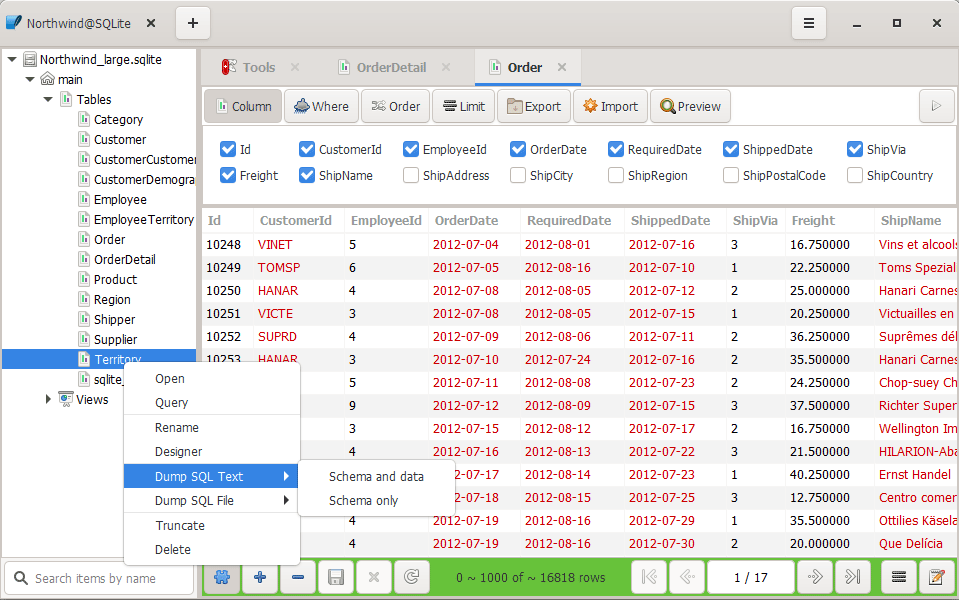
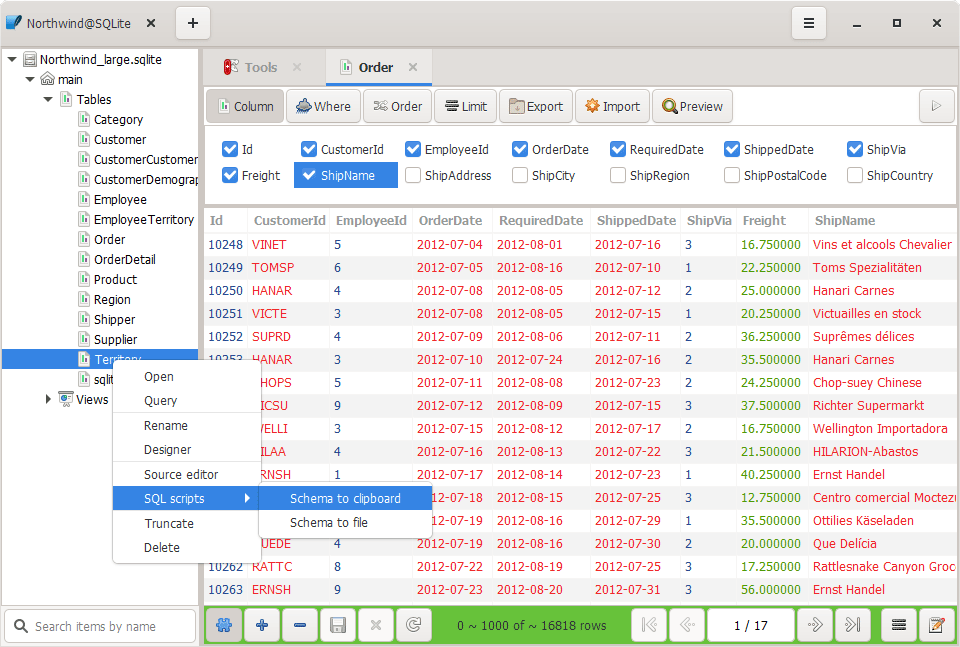
prepare for version 0.18.1.200406

Changed region(s): [[0.0, 0.0, 1.0, 1.0], [0.3438, 0.48, 0.375, 0.72]]

diff --git a/.vuepress/config.js b/.vuepress/config.js
@@ -79,6 +79,7 @@ module.exports = {
                     ],
                     '/download/': [
                         '',
+                        'v0.18.1.200406',
                         'v0.17.0.200323',
                         'v0.16.0.200316',
                         'v0.15.0.200302',

diff --git a/download/v0.13.0.200210.md b/download/v0.13.0.200210.md
@@ -31,7 +31,7 @@ lang: en-US
 
 | Packages        | Windows(32 bit) | Windows(64 bit) | Linux(64 bit)   | MacOS(64 bit)   |
 |-----------------|-----------------|-----------------|-----------------|-----------------|
-| Installer (Github.com) | [Windows Installer](https://github.com/dbkangaroo/kangaroo/releases/download/v0.13.0.200210/Kangaroo_0.13.0.200210_win32.exe) | [Windows Installer](https://github.com/dbkangaroo/kangaroo/releases/download/v0.13.0.200210/Kangaroo_0.13.0.200210_win64.exe) | | |
-| Portable (Github.com)  | [Windows Portable](https://github.com/dbkangaroo/kangaroo/releases/download/v0.13.0.200210/Kangaroo_0.13.0.200210_win32.7z) | [Windows Portable](https://github.com/dbkangaroo/kangaroo/releases/download/v0.13.0.200210/Kangaroo_0.13.0.200210_win64.7z) | [Ubuntu Portable](https://github.com/dbkangaroo/kangaroo/releases/download/v0.13.0.200210/Kangaroo_0.13.0.200210_ubuntu.zip) | [MacOS Portable](https://github.com/dbkangaroo/kangaroo/releases/download/v0.13.0.200210/Kangaroo_0.13.0.200210_macos.zip) |
-| Installer (Gitee.com) | [Windows Installer](https://gitee.com/dbkangaroo/kangaroo/attach_files/332466/download) | [Windows Installer](https://gitee.com/dbkangaroo/kangaroo/attach_files/332454/download) | | |
-| Portable (Gitee.com)  | [Windows Portable](https://gitee.com/dbkangaroo/kangaroo/attach_files/332461/download) | [Windows Portable](https://gitee.com/dbkangaroo/kangaroo/attach_files/332456/download) | [Ubuntu Portable](https://gitee.com/dbkangaroo/kangaroo/attach_files/332485/download) | [MacOS Portable](https://gitee.com/dbkangaroo/kangaroo/attach_files/332484/download) |
+| Installer (Github.com) | [Windows Installer (expired)](https://github.com/dbkangaroo/kangaroo/releases/download/v0.13.0.200210/Kangaroo_0.13.0.200210_win32.exe) | [Windows Installer (expired)](https://github.com/dbkangaroo/kangaroo/releases/download/v0.13.0.200210/Kangaroo_0.13.0.200210_win64.exe) | | |
+| Portable (Github.com)  | [Windows Portable (expired)](https://github.com/dbkangaroo/kangaroo/releases/download/v0.13.0.200210/Kangaroo_0.13.0.200210_win32.7z) | [Windows Portable (expired)](https://github.com/dbkangaroo/kangaroo/releases/download/v0.13.0.200210/Kangaroo_0.13.0.200210_win64.7z) | [Ubuntu Portable (expired)](https://github.com/dbkangaroo/kangaroo/releases/download/v0.13.0.200210/Kangaroo_0.13.0.200210_ubuntu.zip) | [MacOS Portable (expired)](https://github.com/dbkangaroo/kangaroo/releases/download/v0.13.0.200210/Kangaroo_0.13.0.200210_macos.zip) |
+| Installer (Gitee.com) | [Windows Installer (expired)](https://gitee.com/dbkangaroo/kangaroo/attach_files/332466/download) | [Windows Installer (expired)](https://gitee.com/dbkangaroo/kangaroo/attach_files/332454/download) | | |
+| Portable (Gitee.com)  | [Windows Portable (expired)](https://gitee.com/dbkangaroo/kangaroo/attach_files/332461/download) | [Windows Portable (expired)](https://gitee.com/dbkangaroo/kangaroo/attach_files/332456/download) | [Ubuntu Portable (expired)](https://gitee.com/dbkangaroo/kangaroo/attach_files/332485/download) | [MacOS Portable (expired)](https://gitee.com/dbkangaroo/kangaroo/attach_files/332484/download) |

diff --git a/download/v0.18.1.200406.md b/download/v0.18.1.200406.md
@@ -1,0 +1,39 @@
+---
+title: v0.18.1.200406
+lang: en-US
+---
+
+# Kangaroo v0.18.1.200406
+
+## New features & bug-fixes
+1. encrypt user password to save user password.
+2. Implement insert, clone and delete functionality in the datagrid.
+3. Implement connection clone functionality in the start view
+4. Implement dump sql functionality on the dbtree
+5. Implement table schema editor on the dbtree
+6. Implement refresh functionality on the dbtree
+7. fixed: return key behavior invalid on the dbtree
+8. fixed: crashed while open table with null value
+
+<div>
+    <script2 type="text/javascript" async="true" src="https://pagead2.googlesyndication.com/pagead/js/adsbygoogle.js" />
+    <ins class="adsbygoogle"
+        style="display:block; text-align:center;"
+        data-ad-layout="in-article"
+        data-ad-format="fluid"
+        data-ad-client="ca-pub-3975819313740938"
+        data-ad-slot="6760827895"></ins>
+    <script2 type="text/javascript">
+        (adsbygoogle = window.adsbygoogle || []).push({});
+    </script2>
+</div>
+
+
+## Installer & Portable packages
+
+| Packages        | Windows(32 bit) | Windows(64 bit) | Linux(64 bit)   | MacOS(64 bit)   |
+|-----------------|-----------------|-----------------|-----------------|-----------------|
+| Installer<br/>(Github.com) | | [Installer](https://github.com/dbkangaroo/kangaroo/releases/download/v0.18.1.200406/Kangaroo_0.17.0.200323_win64.exe) | | |
+| Portable<br/>(Github.com)  | | [Portable](https://github.com/dbkangaroo/kangaroo/releases/download/v0.18.1.200406/Kangaroo_0.17.0.200323_win64.7z) | [Arch](https://github.com/dbkangaroo/kangaroo/releases/download/v0.18.1.200406/Kangaroo_0.17.0.200323_arch.zip) | [MacOS](https://github.com/dbkangaroo/kangaroo/releases/download/v0.18.1.200406/Kangaroo_0.17.0.200323_macos.zip) |
+| Installer<br/>(Gitee.com) | | [Installer](https://gitee.com/dbkangaroo/kangaroo/attach_files/354379/download) | | |
+| Portable<br/>(Gitee.com)  | | [Portable](https://gitee.com/dbkangaroo/kangaroo/attach_files/354378/download) | [Arch](https://gitee.com/dbkangaroo/kangaroo/attach_files/354377/download) | [MacOS](https://gitee.com/dbkangaroo/kangaroo/attach_files/354376/download) |

diff --git a/download/README.md b/download/README.md
@@ -8,14 +8,17 @@ Stable and LTS(Long-term Support) version depend on test result and stabilizatio
 
 | Release date | Windows(32 bit) | Windows(64 bit)   | Linux(64 bit)   | MacOS(64 bit)   |
 |--------------|-----------------|-------------------|-----------------|-----------------|
+| 2020-05-01 | | [v0.20.1.200501](./v0.20.1.200501) | [v0.20.1.200501](./v0.20.1.200501) | [v0.20.1.200501](./v0.20.1.200501) |
 | TBD          |                 |                   |                 |                 |
 
 
 ## Development version
-Development version will be released weekly, talent be changed daily, keep your eyes on it. 
+Development version will be released weekly, talent be changed daily, keep your eyes on it. <br/>
+__Notice: only 5 latest versions available for downloading.__
 
 | Release date | Windows(32 bit) | Windows(64 bit)   | Linux(64 bit)   | MacOS(64 bit)   |
 |--------------|-----------------|-------------------|-----------------|-----------------|
+| 2020-04-06   | | [v0.18.1.200406](./v0.18.1.200406) | [v0.18.1.200406](./v0.18.1.200406) | [v0.18.1.200406](./v0.18.1.200406) |
 | 2020-03-23   | | [v0.17.0.200323](./v0.17.0.200323) | [v0.17.0.200323](./v0.17.0.200323) | [v0.17.0.200323](./v0.17.0.200323) |
 | 2020-03-16   | | [v0.16.0.200316](./v0.16.0.200316) | [v0.16.0.200316](./v0.16.0.200316) |  |
 | 2020-03-02   | | [v0.15.0.200302](./v0.15.0.200302) | [v0.15.0.200302](./v0.15.0.200302) | [v0.15.0.200302](./v0.15.0.200302) |

diff --git a/README.md b/README.md
@@ -1,8 +1,8 @@
 ---
 home: true
 heroImage: /kangaroo.png
-actionText: Download v0.17.0
-actionLink: /download/v0.17.0.200323
+actionText: Download v0.18.1
+actionLink: /download/v0.18.1.200406
 footer: Private property | Copyright © 2018-present Kangaroo development team
 ---
 
@@ -59,8 +59,8 @@ Development version will be released weekly, Stable and LTS(Long-term Support) v
 
 | Platform    | Windows(32 bit)   | Windows(64 bit)   | Linux(64 bit)   | MacOS(64 bit)   |
 |-------------|-----------------|-------------------|-------------------|-----------------|
-| Stable(Current) |  |  |  |  |
-| Development | | [v0.17.0.200323](./download/v0.17.0.200323) | [v0.17.0.200323](./download/v0.17.0.200323) | [v0.17.0.200323](./download/v0.17.0.200323) |
+| Stable(Planned) |  | [v0.20.1.200501](./download/v0.20.1.200501) | [v0.20.1.200501](./download/v0.20.1.200501) | [v0.20.1.200501](./download/v0.20.1.200501) |
+| Development | | [v0.18.1.200406](./download/v0.18.1.200406) | [v0.18.1.200406](./download/v0.18.1.200406) | [v0.18.1.200406](./download/v0.18.1.200406) |
 
 
 # Support the Project

diff --git a/document/news.md b/document/news.md
@@ -4,6 +4,17 @@ lang: en-US
 ---
 
 # Kangaroo News Timeline
+
+## [Kangaroo v0.18.1.200406](/download/v0.18.1.200406)
+1. encrypt user password to save user password.
+2. Implement insert, clone and delete functionality in the datagrid.
+3. Implement connection clone functionality in the start view
+4. Implement dump sql functionality on the dbtree
+5. Implement table schema editor on the dbtree
+6. Implement refresh functionality on the dbtree
+7. fixed: return key behavior invalid on the dbtree
+8. fixed: crashed while open table with null value
+
 ## [Kangaroo v0.17.0.200323](/download/v0.17.0.200323)
 1. Support connection over SSH tunnel (Windows, Linux/Unix and MacOS)
 2. Add testing support for connection dialog
